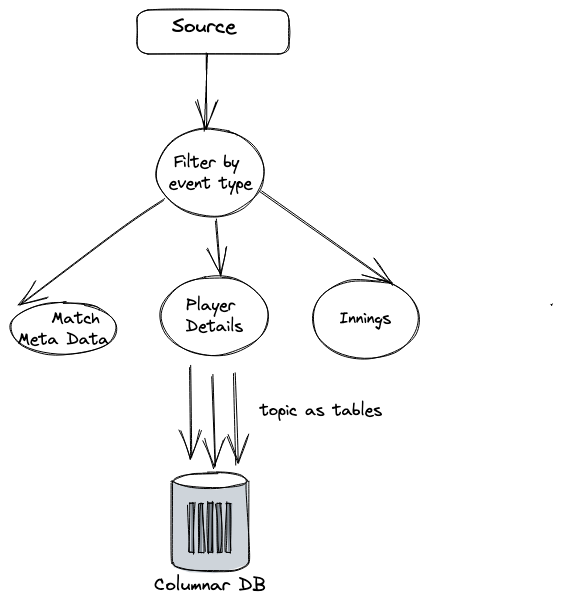
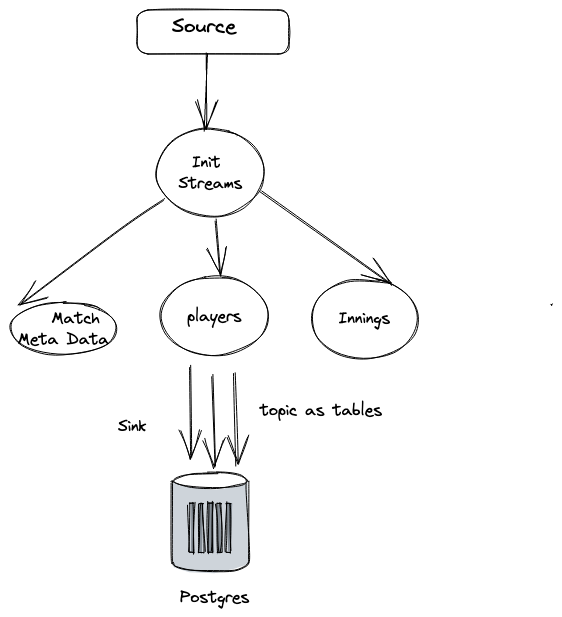
doc: updated for v2 objectives

diff --git a/stream_processors/load_connectors.py b/stream_processors/load_connectors.py
@@ -14,7 +14,7 @@ def connect_server(url):
 def check_if_connectors_exist(client, connector_name):
     result = client.ksql("show connectors")
     connectors = result[0]["connectors"]
-    print("installed connectors: ",connectors)
+    print("installed connectors: ", connectors)
     for each in connectors:
         if each["name"].lower() == connector_name:
             return True

diff --git a/README.md b/README.md
@@ -1,15 +1,15 @@
-# Analysis of Cricket Data (Streaming)
+# Analysis of Cricket Data (Streaming) - V2
 
-## Objective
+## Objective 
 
 Build Stream Processing and Analytics using Kafka as message broker, ksqlDB as stream processing framework, Postgres as Warehouse.  
 
 ## Functional Requirements
 
-- OLTP system will generate events every time a transaction is completed, Kafka Source Connector will poll every new events and send to Kafka Broker.
+- OLTP system will generate events every time a transaction commits, Kafka Source Connector will poll for new events and send to Kafka Broker.
 - A stream processing framework will apply enhancing / transformation on streams.
 - Each stream's topic would be dumped into Warehouse.
-- Apache Super will read up from warehosue for analytics.
+- Metabase to visualize data will read up from warehosue for analytics.
 
 ## Non Functional Requirements
 
@@ -30,11 +30,9 @@ Build Stream Processing and Analytics using Kafka as message broker, ksqlDB as s
 -  Dump into a DuckDb OLAP warehouse
 -  Connect a Apache SuperSet, its supports DuckDB connector
 
-
 ## High Level Design - Streaming Analytics
 
 ![Alt text](high_level_data_architecture.png)
-
 
 ## Components
 
@@ -71,11 +69,11 @@ Build Stream Processing and Analytics using Kafka as message broker, ksqlDB as s
 
 - MongoDB Json + MongoDB Atlas without terraform
 - Kafka Local Setup
-- Kafka Connect to receive any Mongo Updates
+- Kafka Connectors for Mongo + Postgres 
 - Kafka Schema Registry to make topic schema consistent across consumers and producers
 - ksqlDB for stream processing
-- DuckDB to store processed stream
-- Apache SuperSet
+- Postgres to store processed stream
+- Metabase
 
 
 ## Tasks
@@ -85,11 +83,11 @@ Build Stream Processing and Analytics using Kafka as message broker, ksqlDB as s
 - [x] (infra)Kafka setup on local as containers
 - [x] (infra) Kafka Connect Docker 
 - [x] (infra)Kafka Scheama Registry
-- [ ] Split source mongo topic into 3 topics: equivalent of datasets and dump to DuckDb
+- [x] Split source mongo topic into 3 topics: equivalent of datasets and dump to DuckDb
 - [x] Transform Json into Table Record with ksqlDB
 - [x] (infra)DuckDB creation
-- [ ] (infra)Apache Superset Docker
-- [ ] End to End system
+- [x] (infra)Apache Superset Docker
+- [x] End to End system
 - [ ] Extra: Testing in stream processing??
 
 ## Analysis:
@@ -114,23 +112,33 @@ Install Python dependencies:
 
 Start Kafka Local Docker container, creates DuckDB OLAP file:
 
-> `make local-infra-whirl-up`
+> `make setup-local-infra`
 
-Run whole system for 5mins as demo [ Resource constraint]
+Import Mongo Connectors and Postgres Connectors into Kafka Connect to source and sink data
 
-> `python main.py`
+> `python -m stream_processors.load_connectors`
+
+Run Mongo makeshift OLTP system, which dumps document to Atlas and its events are picked by kafka
+
+> `python -m application_server.dumpToMongo`
+
+Create Init Stream, which will unpack json string into a stream, easy to extract in next steps. Run Transformation stream processing as well.
+
+> `python -m stream_processors.create_init_streams && python -m stream_processors.transform_match_metadata`
+
+You can run manual docker ksql queries inside docker instead of above python client.
+
+> `docker exec -it ksqldb-cli ksql http://ksqldb-server:8088`
+ 
+Check Metabase at `localhost:3000` for data being dumped at `example` database. 
 
 Check logs
-> `tail -f system.log`
-
-Load Enhanced data into DuckDB
-> `python -m data_warehouse.load`
+> `tail -f loggers/system.log`
 
 Install Confluent Hub Plugins:
 
 - download zip file, copy into same path as connect plugin env path, install with confluent-hub install *.zip, restart the container
 - create source or sink in ksqldb cli.
-
 
 #### References:
 
@@ -139,3 +147,8 @@ Install Confluent Hub Plugins:
 - [ksqlDb - Too many cooks in the kitchen](https://ksqldb.io/overview.html  )
 - [kafka connectors additon to docker, pain](https://www.youtube.com/watch?v=CcHn_V5Sm8c)
 - [Confluent-hub installation of connectors](https://docs.confluent.io/kafka-connectors/self-managed/confluent-hub/client.html#install-while-offline-using-a-zip-file)
+
+
+#### Problems faced:
+
+- There some data transformation function missing, like unnest of bigquery, array to column. But we can fallback to python basic consumer and producer clients.
